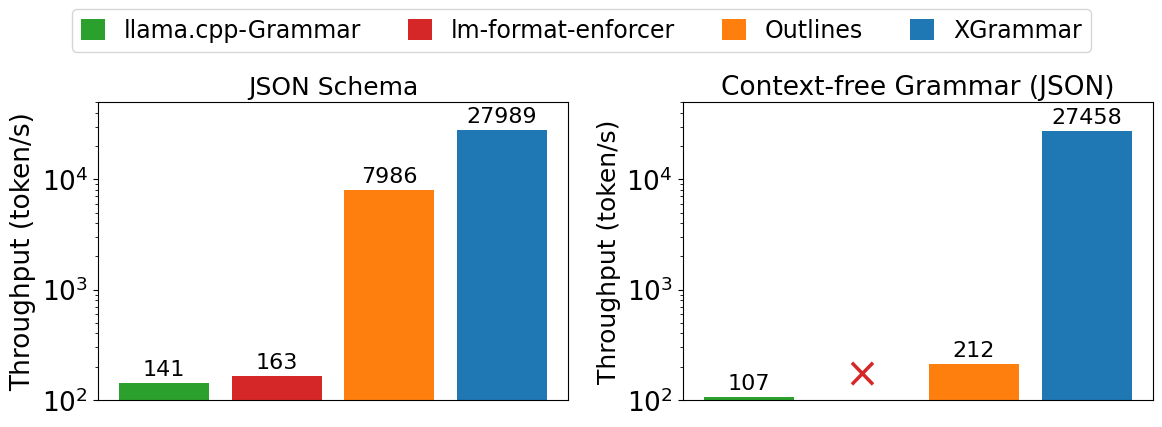
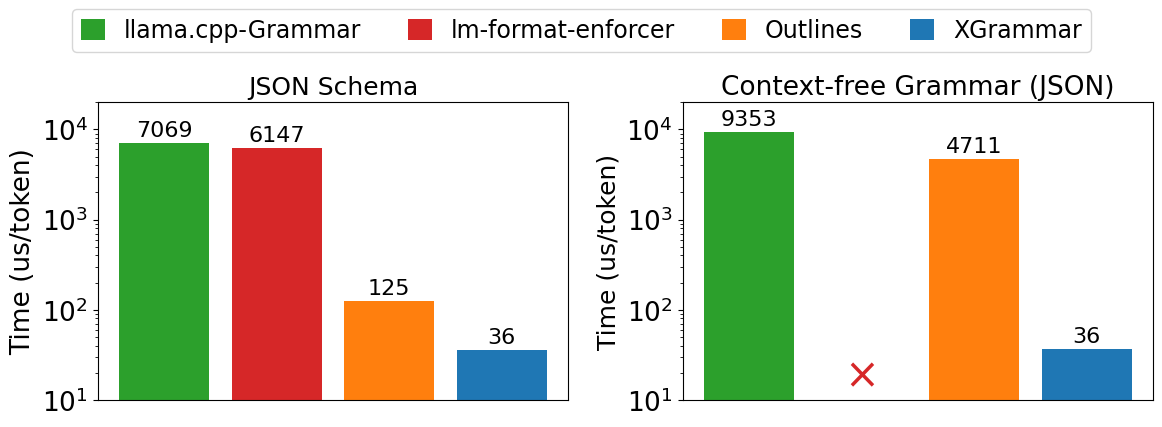
finish (#10)

Changed region(s): [[0.0, 0.2436, 0.6816, 0.9438], [0.7745, 0.2436, 0.9914, 0.8525], [0.062, 0.9133, 0.0929, 0.9438]]

diff --git a/_posts/2024-11-22-achieving-efficient-flexible-portable-structured-generation-with-xgrammar.md b/_posts/2024-11-22-achieving-efficient-flexible-portable-structured-generation-with-xgrammar.md
@@ -6,29 +6,13 @@ author:   MLC Community
 notitle: true
 ---
 
-We are witnessing an exciting era for large language models (LLMs).
-As LLM applications evolve, we are increasingly moving toward LLM agents that not only respond in
-raw text but can also generate code, call environment functions, and even control robots.
-To enable these richer LLM agent applications, LLM engines need to produce structured outputs that can be consumed by downstream agent systems.
-Examples of these structures include JSON, SQL, Python, and more.
-This paradigm is known as the structured generation in LLM inference.
-Fundamentally, an ideal LLM structured generation system should satisfy the following requirements:
+We are witnessing an exciting era for large language models (LLMs). As LLM applications evolve, we are increasingly moving toward LLM agents that not only respond in raw text but can also generate code, call environment functions, and even control robots. To enable these richer LLM agent applications, LLM engines need to produce structured outputs that can be consumed by downstream agent systems. Examples of these structures include JSON, SQL, Python, and more. This paradigm is known as the structured generation in LLM inference. Fundamentally, an ideal LLM structured generation system should satisfy the following requirements:
 
-* First, the structured generation support should not slow down the LLM service for the sake of efficiency.
+* First, efficiency should be the top priority of LLM inference engines, and the structured generation support should not slow down the LLM service.
 * Equally important, the structure specification needs to support a diverse range of structures relevant to current and future applications.
 * On top of the above two goals, the solution should be portable to enable structured generation applications everywhere.
 
-Existing solutions do not address all these goals simultaneously.
-Some libraries introduce efficiency optimizations but at the cost of restricting to a small set of structures
-(e.g., those representable by finite-state machines).
-Conversely, supporting more general structures through expressive representations like context-free grammar
-(CFG) introduces challenges in efficiency, as it has infinitely many possible intermediate states,
-so it is impossible to preprocess every possible state to speed up.
-Furthermore, with the performance boost of the latest GPUs such as H100 and B200, the issue of
-CPU overhead introduced by the structured generation engine has been exacerbated.
-Modern LLM inference on the latest GPUs can generate tens of thousands of tokens per second in large batch scenarios.
-All existing open-source structured generation solutions will introduce large CPU overhead,
-resulting in a significant slowdown in LLM inference.
+It is challenging to address all these goals simultaneously. Some libraries introduce efficiency optimizations but at the cost of restricting to a small set of structures (e.g., those representable by finite-state machines). Conversely, supporting more general structures through expressive representations like context-free grammar (CFG) introduces challenges in efficiency, as it has infinitely many possible intermediate states, so it is impossible to preprocess every possible state to speed up. Furthermore, these challenges will only get harder with the latest GPUs getting faster. Modern LLM inference on the latest GPUs can generate tens of thousands of tokens per second in large batch scenarios. All existing open-source structured generation solutions will introduce large CPU overhead, resulting in a significant slowdown in LLM inference.
 
 In this post, we introduce XGrammar, an open-source library for **efficient**, **flexible**, and **portable** structured generation.
 We achieve these three goals without compromise and are committed to a focused mission: bringing flexible, zero-overhead structured generation everywhere.
@@ -36,23 +20,18 @@ We achieve these three goals without compromise and are committed to a focused m
 
 <p align="center">
     <img src="/img/xgrammar/masking-logits.png" width="70%">
-    <figcaption>Figure 1. Speed of masking logits. (Llama-3-8B, AMD 7950X CPU, H100 GPU)</figcaption>
+    <figcaption>Figure 1: Overhead of masking logits. (Llama-3-8B, AMD 7950X CPU, RTX 4090)</figcaption>
 </p>
 
 <p align="center">
     <img src="/img/xgrammar/e2e-llm.png" width="70%">
-    <figcaption>Figure 2: Output token rate for end-to-end LLM inference. (Llama-3-8B, AMD 7950X CPU, H100 GPU)</figcaption>
+    <figcaption>Figure 2: Time per output token for end-to-end LLM inference. (Llama-3-8B, AMD 7950X CPU, H100 GPU)</figcaption>
 </p>
 
 
-We benchmark XGrammar on both JSON schema generation and unconstrained CFG-guided JSON grammar generation tasks.
-Figure 1 shows that XGrammar outperforms existing structured generation solutions by up to 3.5x on JSON schema workloads and up to 10x on CFG-guided generation tasks.
-We also integrate XGrammar into the LLM serving engine MLC-LLM to benchmark end-to-end structured generation speed.
+We benchmark XGrammar on both JSON schema generation and unconstrained CFG-guided JSON grammar generation tasks. Figure 1 shows that XGrammar outperforms existing structured generation solutions by up to 3.5x on JSON schema workloads and up to 10x on CFG-guided generation tasks.
 
-Additionally, we benchmark end-to-end structured generation engines powered by XGrammar with the Llama-3 model on NVIDIA H100 GPUs.
-Figure 2 shows that our solution outperforms existing LLM engines up to 14x in JSON-schema generation and up to 80x in CFG-guided generation.
-We have released our code and a [tech report](https://github.com/mlc-ai/blog/blob/main/pdf/xgrammar-paper.pdf) (the ArXiv version will be up soon).
-In the remainder of this post, we will introduce the background and key techniques of XGrammar.
+Additionally, we benchmark end-to-end structured generation engines powered by XGrammar with the Llama-3 model on NVIDIA H100 GPUs. Figure 2 shows that our solution outperforms existing LLM engines up to 14x in JSON-schema generation and up to 80x in CFG-guided generation. We have released our [code](https://github.com/mlc-ai/xgrammar) and a [tech report](https://github.com/mlc-ai/blog/blob/main/pdf/xgrammar-paper.pdf) (the ArXiv version will be up soon). In the remainder of this post, we will introduce the background and key techniques of XGrammar.
 
 
 
@@ -84,36 +63,21 @@ A CFG contains multiple rules, each of which can include a concrete set of chara
 
 <p align="center">
     <img src="/img/xgrammar/cfg-example.png" width="50%">
-    <figcaption>Figure 4: Left: An example of a CFG that includes arrays and strings, and each array can contain multiple strings or subarrays.
-    Some examples of strings accepted by this CFG are also provided.
-    Right: the pushdown automata (PDA) converted from the context-free grammar, with an example of the matching stack of the PDA.</figcaption>
+    <figcaption>Figure 4: Left: An example of a CFG that includes arrays and strings, and each array can contain multiple strings or subarrays. Some examples of strings accepted by this CFG are also provided. Right: the pushdown automata (PDA) converted from the context-free grammar, along with a demonstration of a matching stack.</figcaption>
 </p>
 
-We choose CFGs as the structure specification method for XGrammar due to their expressive nature.
-Many common programming languages, such as JSON, XML, and SQL, can be described using CFGs.
-They are also superior to alternative formats such as JSON Schema and regular expressions because they can support recursive nested structures.
-To interpret a CFG, the pushdown automaton (PDA) is commonly used.
-It works like a finite automaton but has a stack to handle the nested recursion of rules.
-The PDA reads an input string, uses the stack to store or remove symbols, and decides whether to accept the input based on its rules and stack contents.
+We choose CFGs as the structure specification method for XGrammar due to their expressive nature. Many common programming languages, such as JSON, XML, and SQL, can be described using CFGs. They are also superior to alternative formats such as JSON Schema and regular expressions because they can support recursive nested structures.
 
-**Why is it hard to accelerate general CFGs?**
-The flexible nature of CFGs and PDAs makes them more challenging to accelerate.
-To generate token masks in constrained decoding, we need to check the validity of every token in the vocabulary—which can be as many as 128,000 tokens in models like Llama 3!
-The execution of PDA depends on internal stacks, which have infinitely many possible states, making it impractical to precompute the mask for every possible state.
-Moreover, CFG often exhibits ambiguity during the matching process, which is reflected in the PDA execution as multiple possible state transitions.
-The PDA will split the state and store one stack for each possibility.
-The increase in the number of stacks slows down the execution of the PDA and multiplies the computation of token checking severalfold.
+A pushdown automaton (PDA) is a common approach to execute a CFG. Each PDA contains multiple finite state machines (FSM), each representing a rule in the CFG. Transitions in the PDA can either consume an input character or recurse into another rule. The PDA begins processing the input string by executing state transitions in the FSM associated with the root rule. When it encounters a transition referencing another rule, it recurses into that rule to continue matching. The PDA leverages a stack to store the historical rules, enabling us to traverse among rules recursively. Once a rule is fully matched, the PDA pops the stack to return to the previous context and continues processing. Notably, when multiple transitions are possible, it becomes necessary to maintain multiple stacks. The ability to recurse into other rules makes PDAs much more powerful than single FSMs (or regular expressions convertible into FSMs), providing extra ability to handle recursion and nested structures.
+
+**Why is it hard to accelerate general CFGs?** The flexible nature of CFGs and PDAs makes them more challenging to accelerate. To generate token masks in constrained decoding, we need to check the validity of every token in the vocabulary—which can be as many as 128,000 tokens in models like Llama 3! The execution of PDA depends on internal stacks, which have infinitely many possible states, making it impractical to precompute the mask for every possible state. Moreover, we need to maintain multiple stacks during the execution of the PDA, whose number can be up to dozens. We need to check the validity of tokens for every stack, which increases the computation of token checking severalfold.
 
 
 
 
 ## XGrammar Overview
 
-XGrammar solves the above challenges and provides full and efficient support for context-free
-grammar in LLM structured generation through a series of optimizations.
-Our primary insight is that although we cannot precompute complete masks for infinitely many states of the pushdown automaton,
-a significant portion (usually more than 99%) of the tokens in the mask can be precomputed in advance.
-Thus we categorize the tokens into two sets:
+XGrammar solves the above challenges and provides full and efficient support for context-free grammar in LLM structured generation through a series of optimizations. Our primary insight is that although we cannot precompute complete masks for infinitely many states of the pushdown automaton, a significant portion (usually more than 99%) of the tokens in the mask can be precomputed in advance. Thus we categorize the tokens into two sets:
 
 - **Context-independent tokens**: tokens whose validity can be determined by only looking at the current position in the PDA and not the stack.
 - **Context-dependent tokens**: tokens whose validity must be determined with the entire stack.
@@ -141,7 +105,7 @@ By skipping checking the majority of tokens at runtime, we can significantly spe
 We designed an additional set of algorithms and system optimizations to further enhance the mask generation speed and reduce preprocessing time, summarized below:
 
 1. **Context expansion**. We detect additional context information for each rule in the grammar and use it to decrease the number of context-dependent tokens and further speed up the runtime check.
-2. **Persistent execution stack**. To handle the issue of stack state splitting caused by the ambiguity of grammar, we design a tree-based data structure that efficiently manages multiple stacks together. It can also store state from previous times and enable efficient state rollback, which speeds up the runtime checking of context-dependent tokens.
+2. **Persistent execution stack**. To speed up the maintenance of multiple parallel stacks during splitting and merging due to multiple possible expansion paths, we design a tree-based data structure that efficiently manages multiple stacks together.  It can also store state from previous times and enable efficient state rollback, which speeds up the runtime checking of context-dependent tokens.
 3. **Pushdown automata structure optimizations**. We leverage a series of optimizations adopted from compiler techniques, particularly inlining and equivalent state merging to reduce the number of nodes in the pushdown automata, speeding up both the preprocessing phase and the runtime mask generation phase.
 4. **Parallel grammar compilation**. We parallelize the compilation of grammar using multiple CPU cores to further reduce the overall preprocessing time.
 
@@ -163,25 +127,14 @@ fulfilling our goal of flexible and efficient structured generation.
 
 We evaluate our system with the Llama-3.1-8B-Instruct model on two workloads:
 
-* JSON schema: this setting leverages JSON schema as the structure specification, helping to evaluate the effectiveness of the system on schema-guided generation.* 
+* JSON schema: this setting leverages JSON schema as the structure specification, helping to evaluate the effectiveness of the system on schema-guided generation.
 * JSON context-free grammar: this setting takes a CFG that specifies standard JSON grammar adopted from ECMA-404. Notably, this is a more challenging task because the input is a general CFG. It helps to evaluate how well a system performs in general grammar-guided generation.
 
-Our hardware for evaluation is AMD Ryzen 9 7950X CPU and NVIDIA H100 GPU. We utilize the [JSON-mode-eval](https://huggingface.co/datasets/NousResearch/json-mode-eval) dataset.
+We utilize the [JSON-mode-eval](https://huggingface.co/datasets/NousResearch/json-mode-eval) dataset.
 
-We first evaluate the speed of masking logits.
-We take the ground truth response and measure the time of mask generation and logit process.
-We benchmark both Outlines’ latest rust backend (v0.1.3) and Python backend (v0.0.46) and report the best among the two.
-We also benchmarked llama-cpp’s built-in grammar engine.
-As shown in Figure 1, XGrammar outperforms existing structured generation solutions by up to 3.5x on the JSON schema workload and more than 10x on the CFG workload.
-Notably, the gap in CFG-guided generation is larger. This is because many JSON schema specifications can be expressed as regular expressions, bringing more optimizations that are not directly applicable to CFGs.
+We first evaluate the speed of masking logits. We take the ground truth response and measure the time of mask generation and logit process. We benchmark both Outlines’ latest rust backend (v0.1.3) and Python backend (v0.0.45) and report the best among the two. We also benchmarked llama-cpp’s built-in grammar engine (b3998) and lm-format-enforcer (v0.10.9, lm-format-enforcer has no CFG support). As shown in Figure 1, XGrammar outperforms existing structured generation solutions by up to 3.5x on the JSON schema workload and more than 10x on the CFG workload. Notably, the gap in CFG-guided generation is larger. This is because many JSON schema specifications can be expressed as regular expressions, bringing more optimizations that are not directly applicable to CFGs.
 
-For end-to-end evaluation, we benchmarked the LLM inference engine efficiency in serving scenarios with different batch sizes.
-We ensure that the number of output tokens is almost the same by limiting the output length.
-Figure 2 shows end-to-end inference performance on LLM serving tasks.
-We can find the trend again that the gap on CFG-guided settings is larger, and the gap grows on larger batch sizes.
-This is because the GPU throughput is higher on larger batch sizes, putting greater pressure on the grammar engine running on CPUs.
-Note that the main slowdown of vLLM comes from its structured generation engine, which can be potentially eliminated by integrating with XGrammar.
-In all cases, XGrammar enables high-performance generation in both settings without compromising flexibility and efficiency.
+For end-to-end evaluation, we benchmarked the LLM inference engine efficiency in serving scenarios with different batch sizes. We ensure that the number of output tokens is almost the same by limiting the output length. Figure 2 shows end-to-end inference performance on LLM serving tasks. We can find the trend again that the gap on CFG-guided settings is larger, and the gap grows on larger batch sizes. This is because the GPU throughput is higher on larger batch sizes, putting greater pressure on the grammar engine running on CPUs. Note that the main slowdown of vLLM comes from its structured generation engine, which can be potentially eliminated by integrating with XGrammar. In all cases, XGrammar enables high-performance generation in both settings without compromising flexibility and efficiency.
 
 
 
@@ -207,10 +160,7 @@ Please check out our [GitHub](https://github.com/mlc-ai/xgrammar) and [documenta
 
 ## Summary
 
-In this post, we introduce XGrammar, an efficient, flexible, and portable engine for structured generation.
-This project is made possible by many contributions from the open-source community.
-We are committed to our mission of bringing zero-overhead flexible structured generation to everyone and warmly welcome feedback and contributions from the community.
-To try out, or learn more about it, please check out the following resources:
+In this post, we introduce XGrammar, an efficient, flexible, and portable engine for structured generation. This project is made possible by many contributions from the open-source community. We are committed to our mission of bringing zero-overhead flexible structured generation to everyone and warmly welcome feedback and contributions from the community. To try out, or learn more about it, please check out the following resources:
 
 - [Documentations](https://xgrammar.mlc.ai/docs/)
 - [GitHub repo](https://github.com/mlc-ai/xgrammar)
@@ -222,5 +172,3 @@ To try out, or learn more about it, please check out the following resources:
 
 We thank (alphabetically) the DeepSeek team, Hugging Face team, SGLang team, TensorRT-LLM team, vLLM team, and WebLLM team for their helpful feedback and discussions.
 We also thank Weihua Du (CMU), Haoran Peng (UW), Xinyu Yang (CMU), Zihao Ye (UW), Yilong Zhao (UC Berkeley), Zhihao Zhang (CMU), and Ligeng Zhu (MIT) for their insightful discussion and feedback.
-
-
